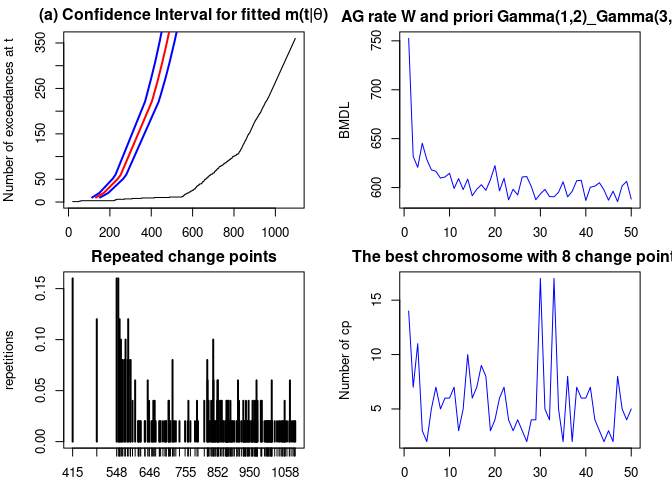
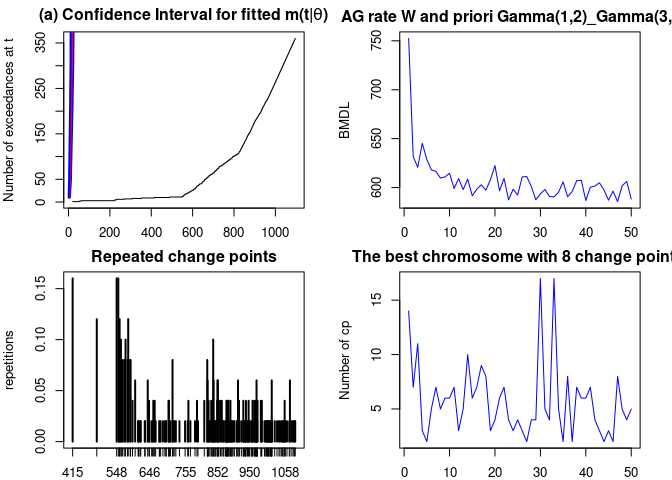
complete transition to tidychangepoint

Changed region(s): [[0.0938, 0.0625, 0.2812, 0.4375]]

diff --git a/README.md b/README.md
@@ -1,18 +1,18 @@
 
-# BayesianMDLGA
+# tidychangepoint
 
 <!-- badges: start -->
-[![R-CMD-check](https://github.com/c-taimal/BayesianMDLGA/actions/workflows/R-CMD-check.yaml/badge.svg)](https://github.com/c-taimal/BayesianMDLGA/actions/workflows/R-CMD-check.yaml)
+[![R-CMD-check](https://github.com/c-taimal/tidychangepoint/actions/workflows/R-CMD-check.yaml/badge.svg)](https://github.com/c-taimal/tidychangepoint/actions/workflows/R-CMD-check.yaml)
 <!-- badges: end -->
 
 ## Usage
 
 ``` r
-remotes::install_github("c-taimal/BayesianMDLGA")
+remotes::install_github("beanumber/tidychangepoint")
 ```
 
 ``` r
-library(BayesianMDLGA)
+library(tidychangepoint)
 ```
 
 ## Tidy methods for changepoint analysis
@@ -120,6 +120,16 @@ plot(cpts)
 
 ![](README_files/figure-gfm/pelt-plot-1.png)<!-- -->
 
+The `diagnose()` function shows the empirical cumulative distribution of
+the exceedances of the time series, as well as how that distribution is
+modeled as a non-homogeneous Poisson process.
+
+``` r
+diagnose(cpts)
+```
+
+![](README_files/figure-gfm/diagnose-1.png)<!-- -->
+
 ## Algorithms
 
 ### From `changepoint`
@@ -191,7 +201,7 @@ DataCPSim |>
 changepoints(lista_AG)
 ```
 
-    ## [1]  566  694  862  884  915  920  939 1007 1096
+    ## [1]  566  694  862  884  915  920  939 1007
 
 ``` r
 plot(lista_AG)
@@ -208,17 +218,17 @@ plot(lista_AG$segmenter)
 ![](README_files/figure-gfm/diagnostic-1.png)<!-- -->
 
     ## Se guardo la imagen:
-    ## /tmp/Rtmp7oYBWD/Fig_4AGBMDL__rf_W_Gamma(1,2)_Gamma(3,1.2)_r50_k50_BMDL_585.pdf
+    ## /tmp/RtmpdjUMrf/Fig_4AGBMDL__rf_W_Gamma(1,2)_Gamma(3,1.2)_r50_k50_BMDL_585.pdf
 
 ![](README_files/figure-gfm/diagnostic-2.png)<!-- -->
 
 ## Citation
 
 ``` r
-citation("BayesianMDLGA")
+citation("tidychangepoint")
 ```
 
-    ## To cite package 'BayesianMDLGA' in publications use:
+    ## To cite package 'tidychangepoint' in publications use:
     ## 
     ##   Taimal CA, Suárez-Sierra BM, Rivera JC (2023). "An Exploration of
     ##   Genetic Algorithms Operators for the Detection of Multiple
